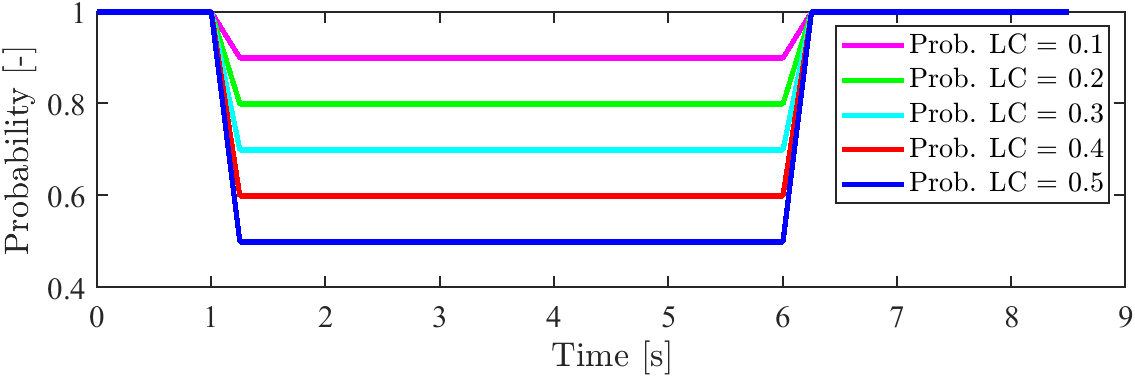
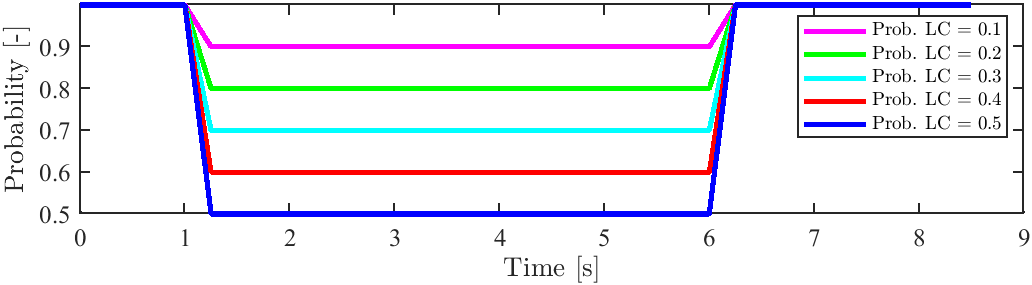
new version

diff --git a/README.md b/README.md
@@ -1,17 +1,39 @@
 # Code for Interaction-Aware Motion Planning for Autonomous Vehicles with Multi-Modal Obstacle Uncertainties in Multi-Vehicle Scenarios
 
-This version contains the implementation for the comparison between **Sequence-based Optimization** and **Policy-based Optimization** [1], [2].
+(For any questions please contact jian.zhou@liu.se)
 
-Full code will be published if the paper can be accepted.
+The current version contains the implementation for the comparison between **Sequence-based Optimization** and **Policy-based Optimization** [1], [2].
+
+The full code of the paper will be published if the paper can be accepted.
 
 ## Comparison between Sequence-based and Policy-based Optimizations
-The scenario is designed as below, the SV is predicted to have both lane-changing probability and lane-keeping probability by the EV. In actuality the SV is always keeping the lane, the EV is controlled by an MPC controller which tracks a constant velocity and keeps the lane. If the SV is predicted to change the lane, the EV, being controlled by the MPC, needs to decelerate to avoid a collision with the SV over the prediction horizon.
-![alt](policy-vs-sequence-optimization/Fig_SV_EV_Path.png "Fig.1 Scenario.")
-
-We compare the results of the two methods with respect to different lane-changing probabilities of the SV. The probabilities are set manually while in a comprehensive motion planner, it is predicted by a motion prediction module. We set the predicted lane-changing of the SV in five different cases as below:
-![alt](policy-vs-sequence-optimization/Fig_EV_Prob.png "Fig.2 Predicted lane-changing probability of the SV.")
+The implementation is performed by MATLAB, to run the code you need to download CasADi (https://web.casadi.org/).
 
 
+The scenario is designed in Fig. 1, where the SV is predicted to have both lane-changing probability and lane-keeping probability by the EV. In actuality the SV is always keeping the lane, the EV is controlled by an MPC controller which tracks a constant velocity and keeps the lane. If the SV is predicted to change the lane, the EV, being controlled by the MPC, needs to decelerate to avoid a collision with the SV over the prediction horizon.
+![alt](policy-vs-sequence-optimization/Fig_SV_EV_Path.png)
+<center><font size=2> Fig. 1 Scenario </font></center>
+
+We compare the results of the two methods with respect to different lane-changing probabilities of the SV. The probabilities are set manually here, while in a comprehensive motion planner, it is predicted by a motion prediction module. We set the predicted lane-changing probabilities of the SV in five different cases as below:
+![alt](policy-vs-sequence-optimization/Fig_EV_Prob.png)
+<center><font size=2> Fig.2 Predicted lane-changing probability of the SV. </font></center>
+
+According to the probability output, we get the motion-planning results of the EV:
+![alt](policy-vs-sequence-optimization/Fig_EV_Speed.png)
+<center><font size=2> Fig.3 Speed of the EV. </font></center>
+
+![alt](policy-vs-sequence-optimization/Fig_EV_Acc.png)
+<center><font size=2> Fig.4 Net acceleration of the EV. </font></center>
+
+![alt](policy-vs-sequence-optimization/Fig_EV_Cost.png)
+<center><font size=2> Fig.5 Optimal cost of two methods. </font></center>
+
+The computation time of the sequence-based approach with p = 0.1 to 0.5 is 0.06 s, 0.07 s, 0.05 s, 0.07 s, 0.05 s, respectively.
+
+The computation time of the policy-based approach with p = 0.1 to 0.5 is 0.11 s, 0.12 s, 0.09 s, 0.12 s, 0.09 s, respectively.
+
+From this case study, we can conclude that:
+(1) The policy-based approach is generally less conservative than the sequence-based approach, particularly when one of the probabilities is predicted very small. (2) The policy-based approach takes a longer time to solve the problem, and it is easy to infer that the computation time increases when the number of SVs and the number of modes are increased.
 
 ## Reference
 [1] Batkovic, Ivo, et al. "A robust scenario MPC approach for uncertain multi-modal obstacles." IEEE Control Systems Letters 5.3 (2021): 947-952.
